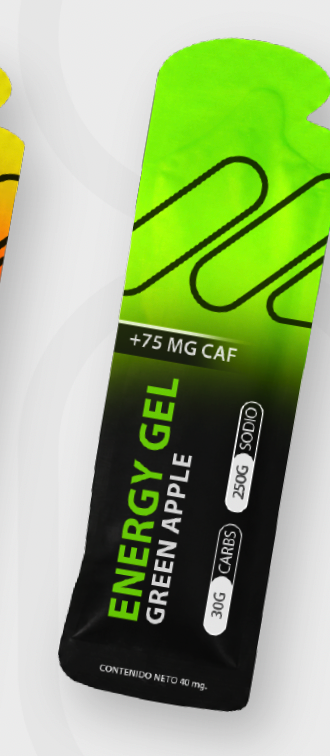
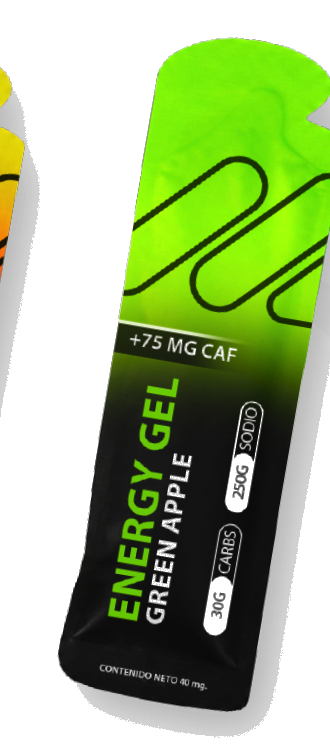
Geles con fondo transparente real (PNG), sección vuelve a negro

diff --git a/index.html b/index.html
@@ -206,10 +206,10 @@ nav{position:fixed;top:0;left:0;right:0;z-index:100;display:flex;align-items:cen
 .w-amazfit .w-screen{width:130px;height:130px;border-radius:50%}
 
 /* ── EL PRODUCTO (CSS gels) ──────────────────────────── */
-#producto{background:#ebeaea}
-#producto .section-eyebrow{color:#999}
-#producto .section-title{color:#111}
-#producto .gel-desc{color:rgba(0,0,0,.5)}
+#producto{background:#000}
+#producto .section-eyebrow{color:var(--silver)}
+#producto .section-title{color:#fff}
+#producto .gel-desc{color:rgba(255,255,255,.4)}
 .gels-row{display:grid;grid-template-columns:repeat(3,1fr);gap:40px;justify-items:center}
 .gel-card{display:flex;flex-direction:column;align-items:center;gap:20px;cursor:pointer}
 .gel-stage{width:240px;height:320px;display:flex;align-items:center;justify-content:center}